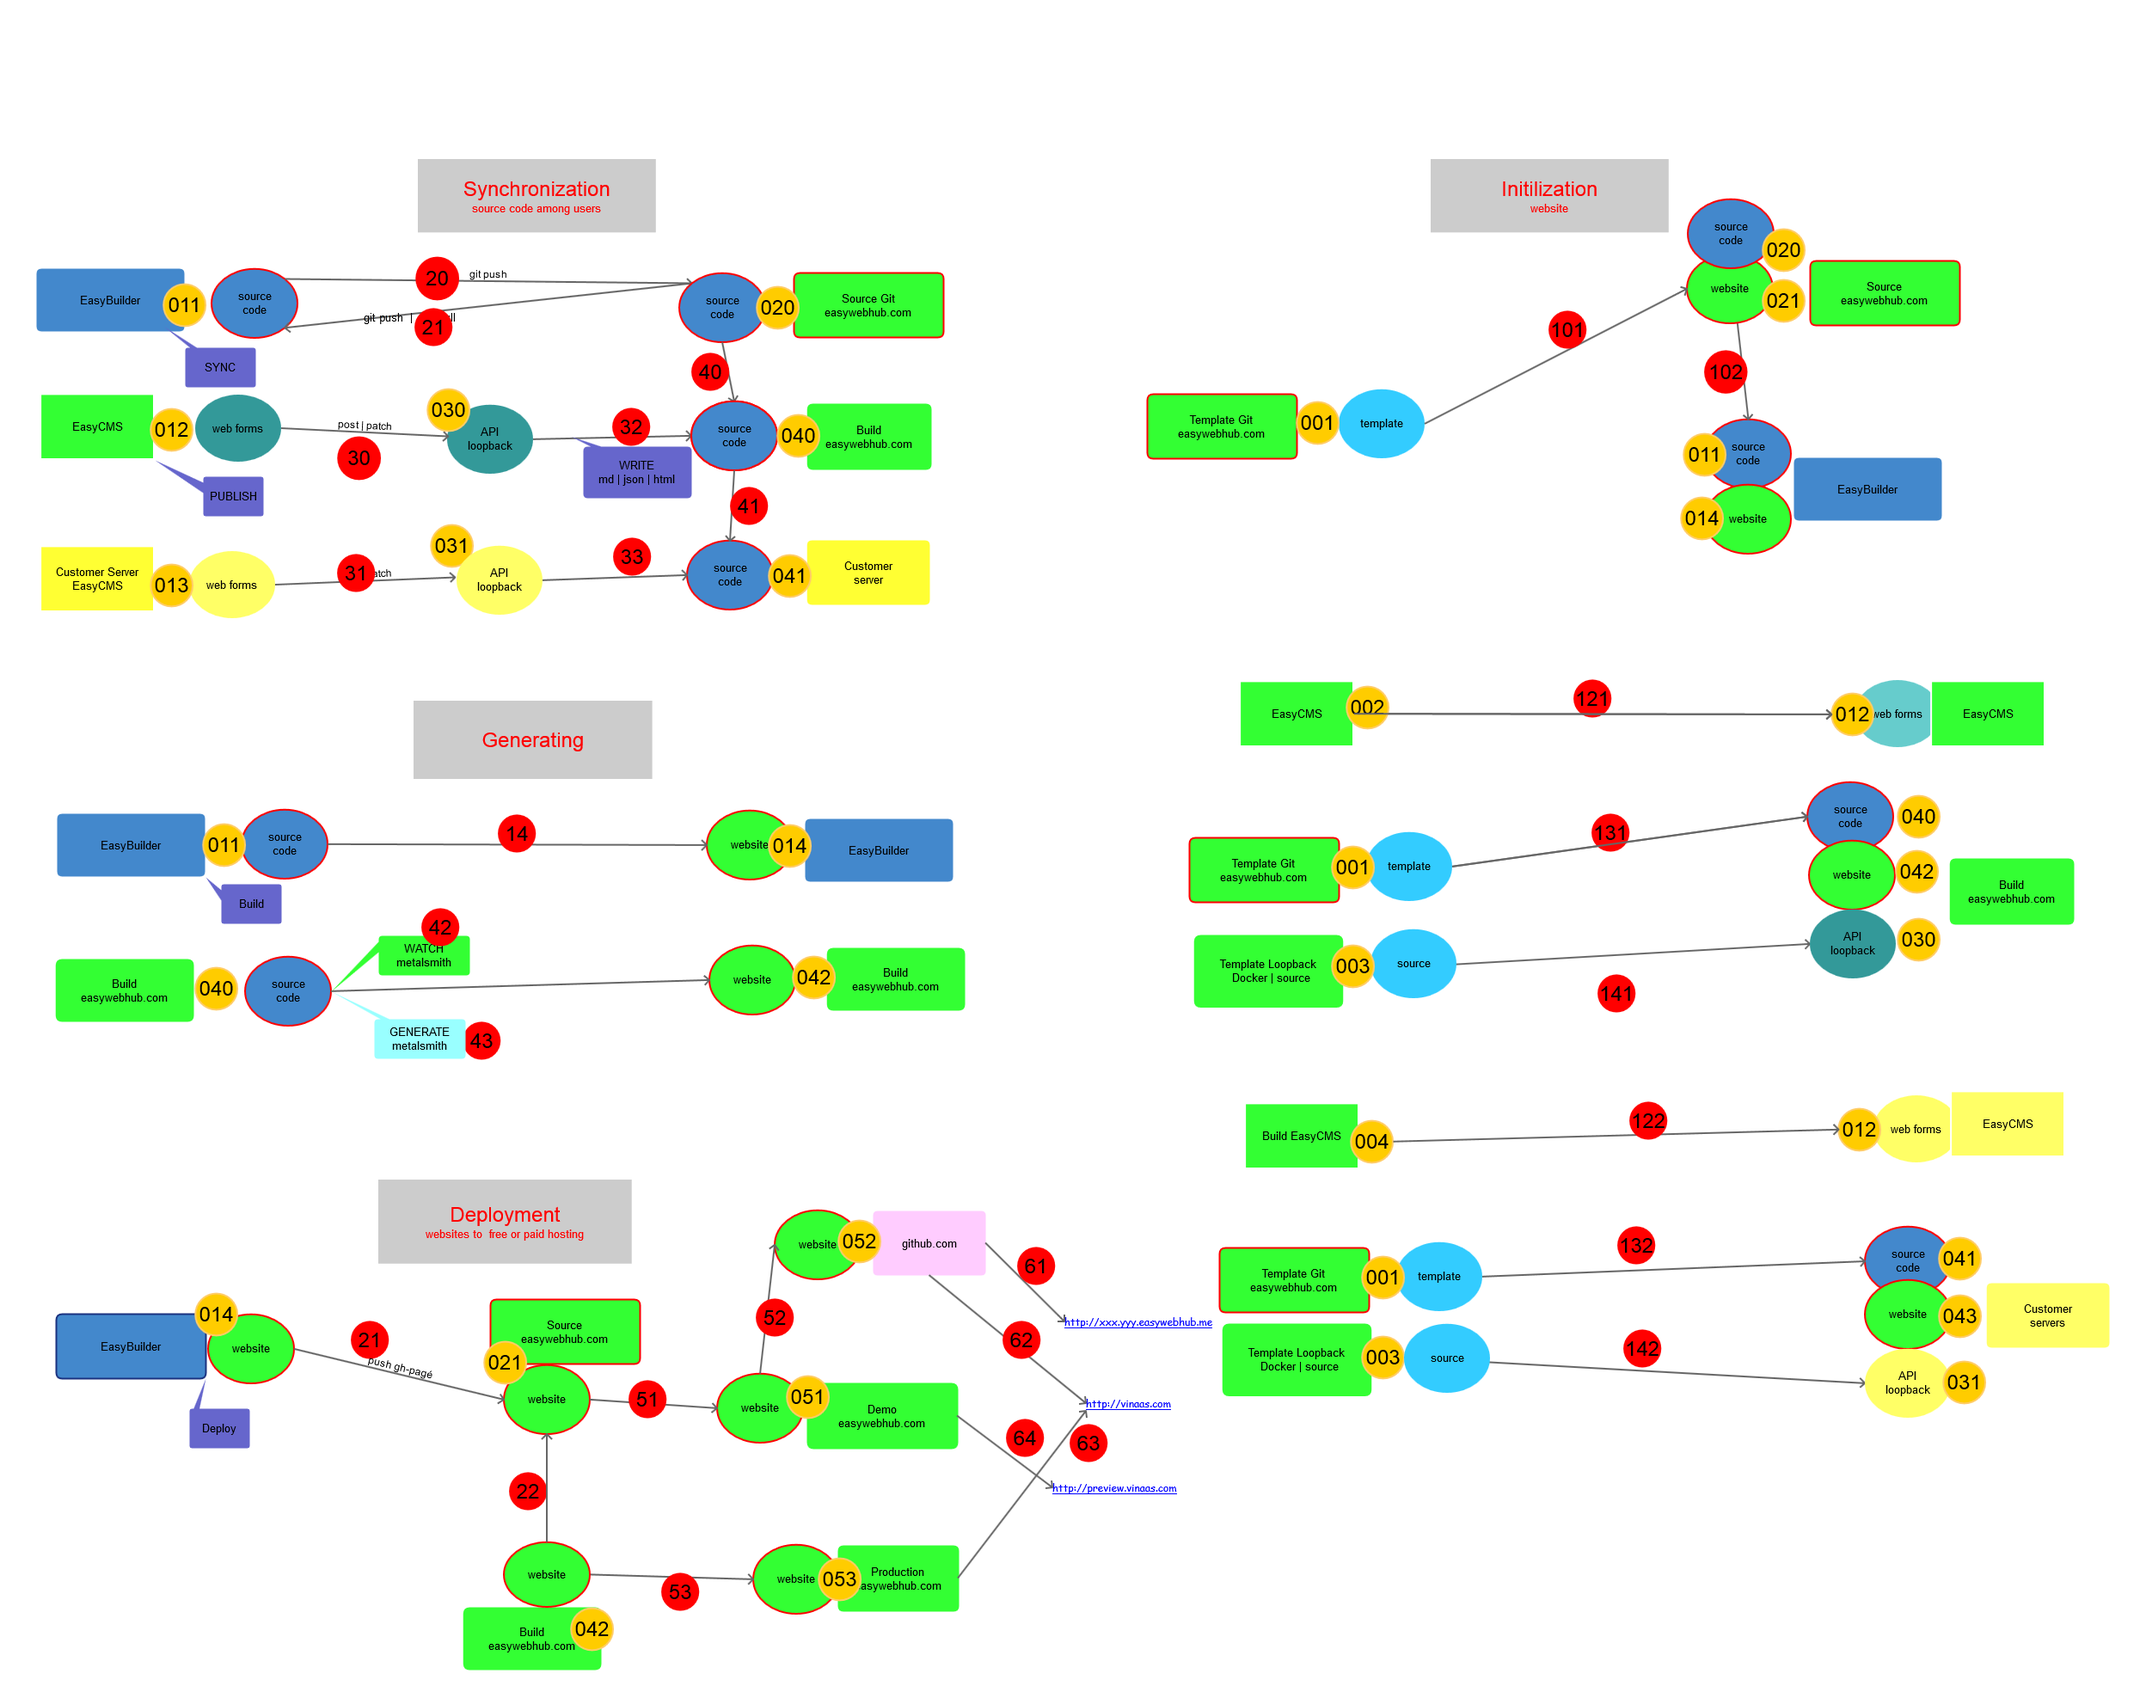
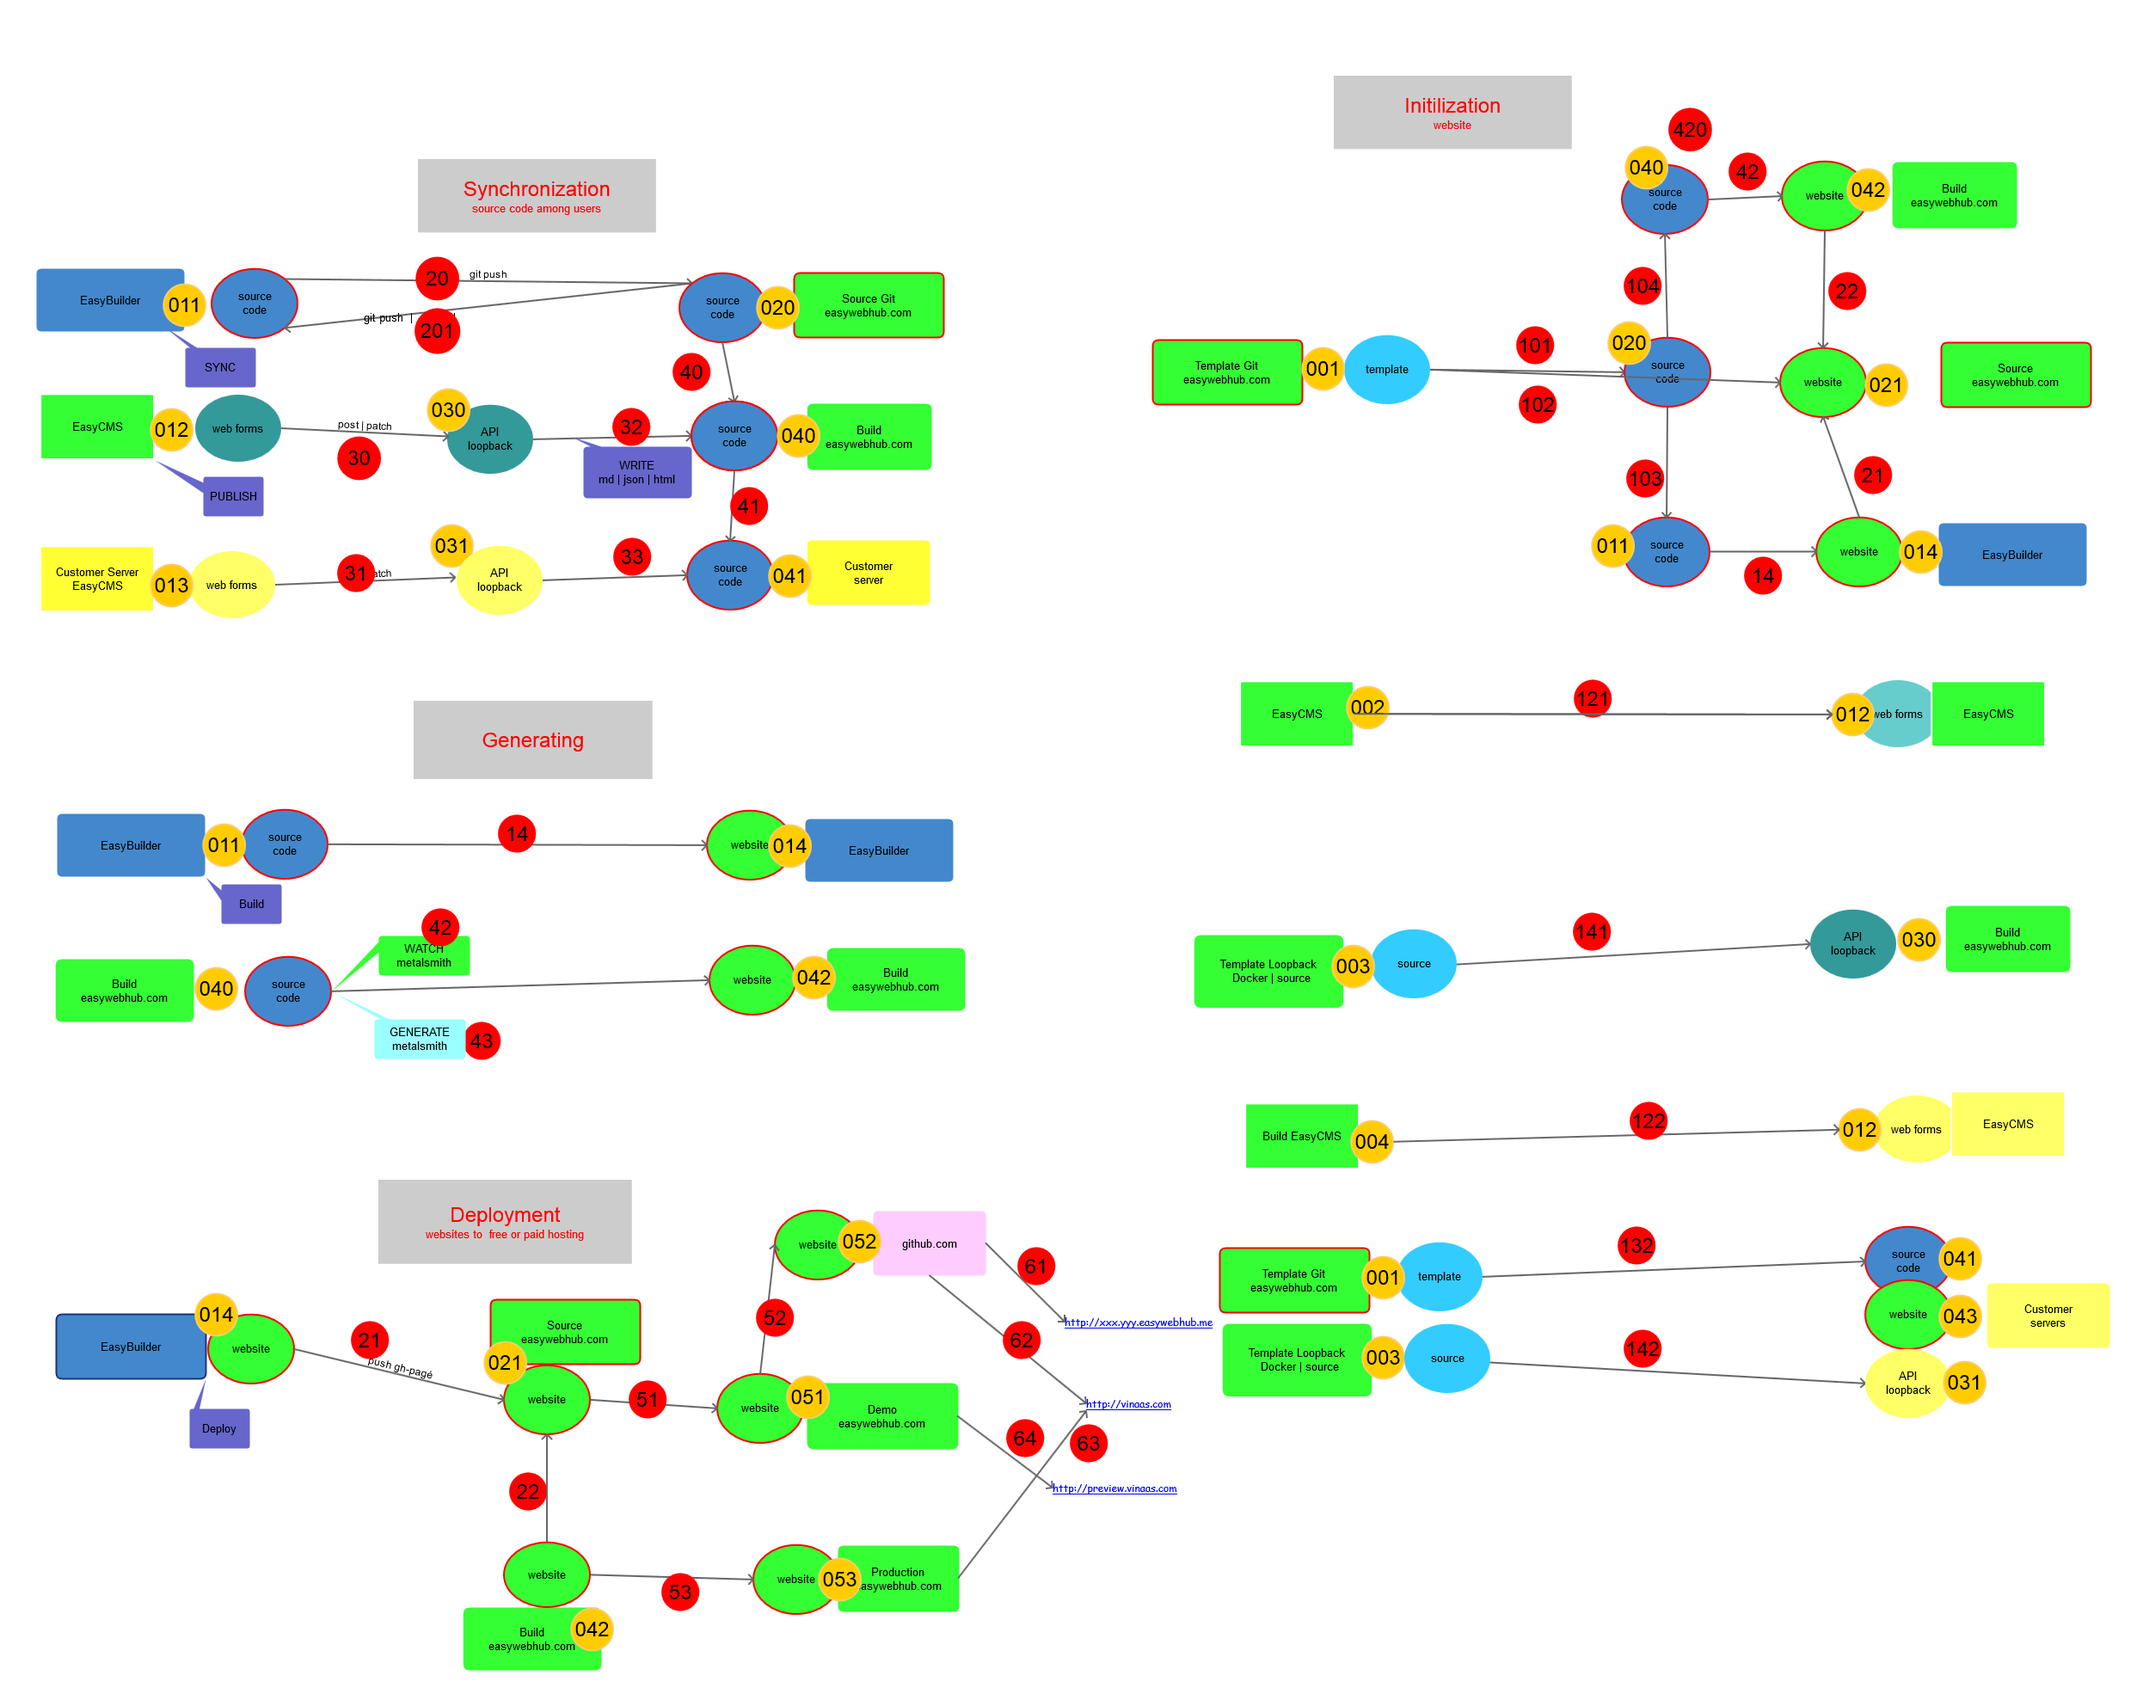
điều chỉnh workflow

diff --git a/docs/architect/EWDeploymentFlow.md b/docs/architect/EWDeploymentFlow.md
@@ -52,7 +52,21 @@
 - `003` và `030` : thu mục https://github.com/vinaas/easyquiztest/tree/master/backend
 
 
+## Điều chỉnh workflow
+> xem hình worklow trên cùng
+- bỏ `131`, sử dụng `104` để tạo `040` từ `020`, sau đó tạo `042` và đồng nhất với `021`
 
+- thay đổi tên: 
+    - `102` cũ đổi thành `103`: 
+    - `21` bị trùng thành `201` : git pull , tương ứng với `20`: git push 
+
+- bổ sung
+    - `102` : git clone: có thể gom chung `101 & 102` thành: migration 
+    - `104`: git clone 
+    - `420`: npm install, để sau đó có thể chạy `42`
+    - `21, 22`: git push, merge with remote , bảo đảm `014, 042` đồng nhất với `021`
+
+> tìm hiểu thêm 
 ## Giải thích
 
 ### Script tự động
